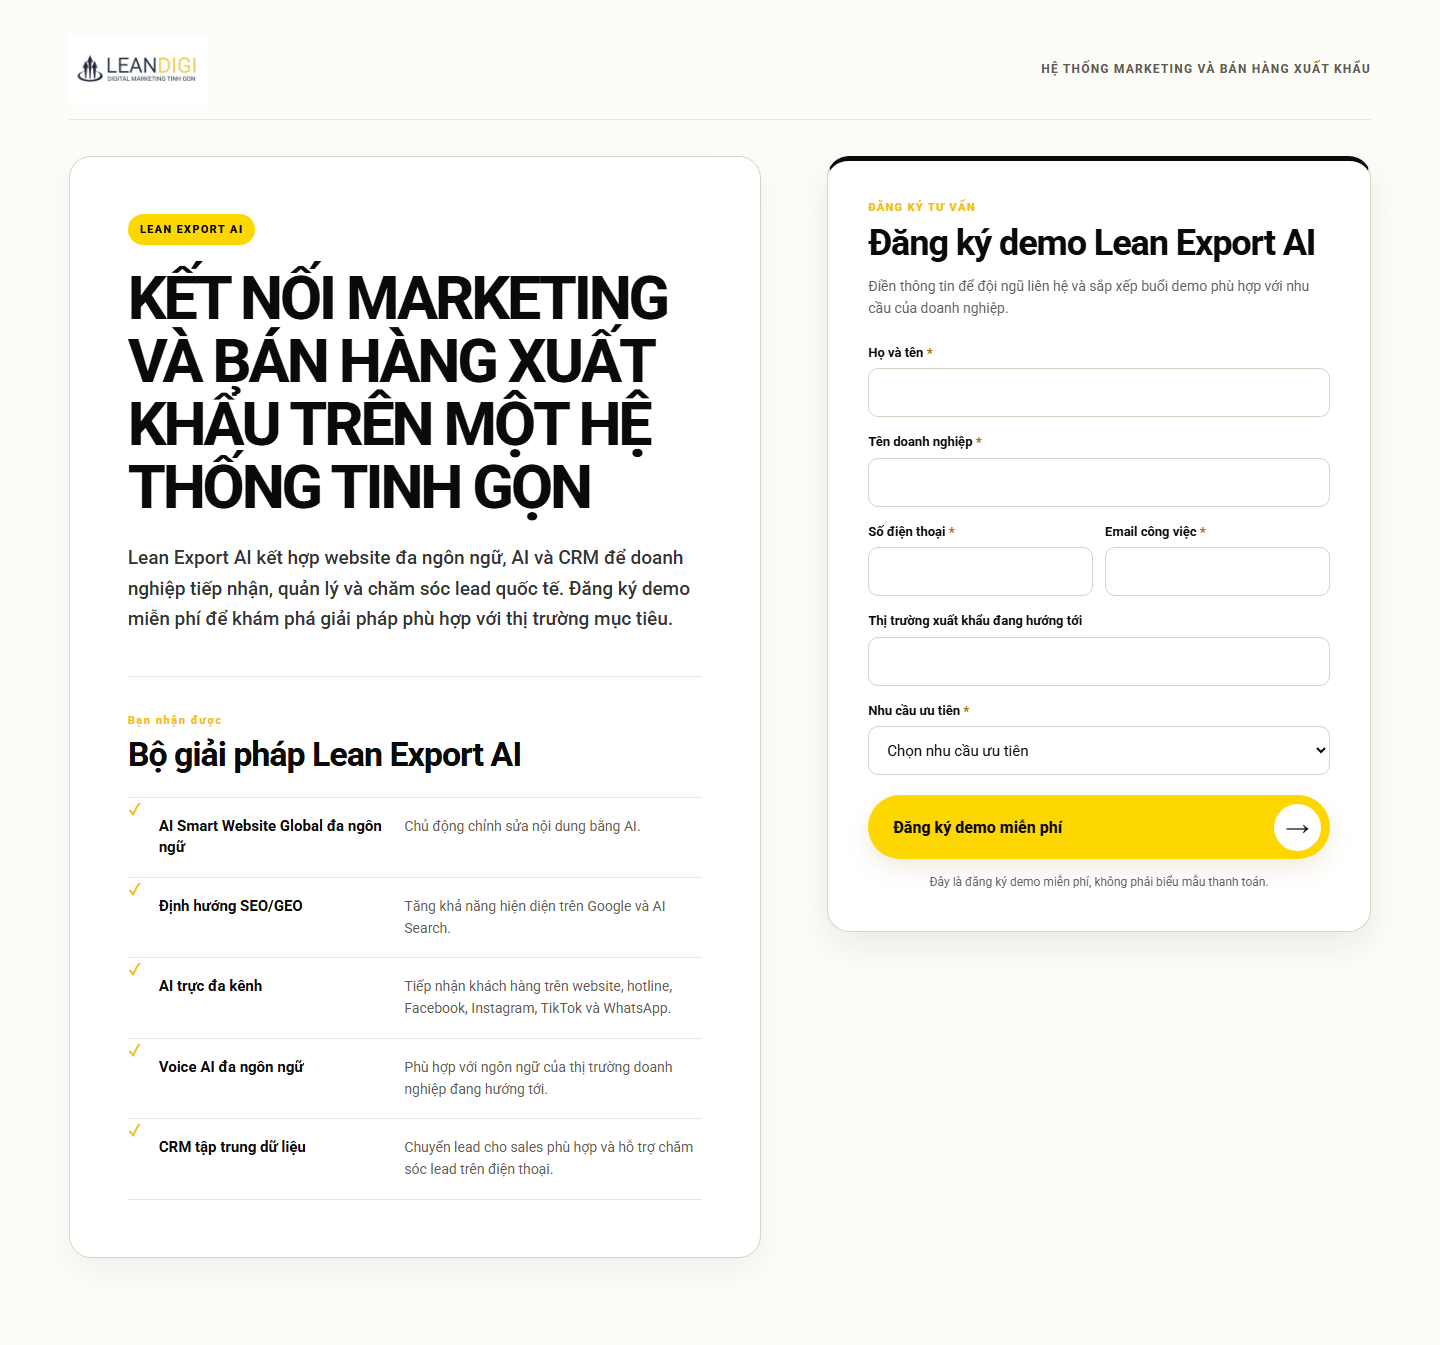
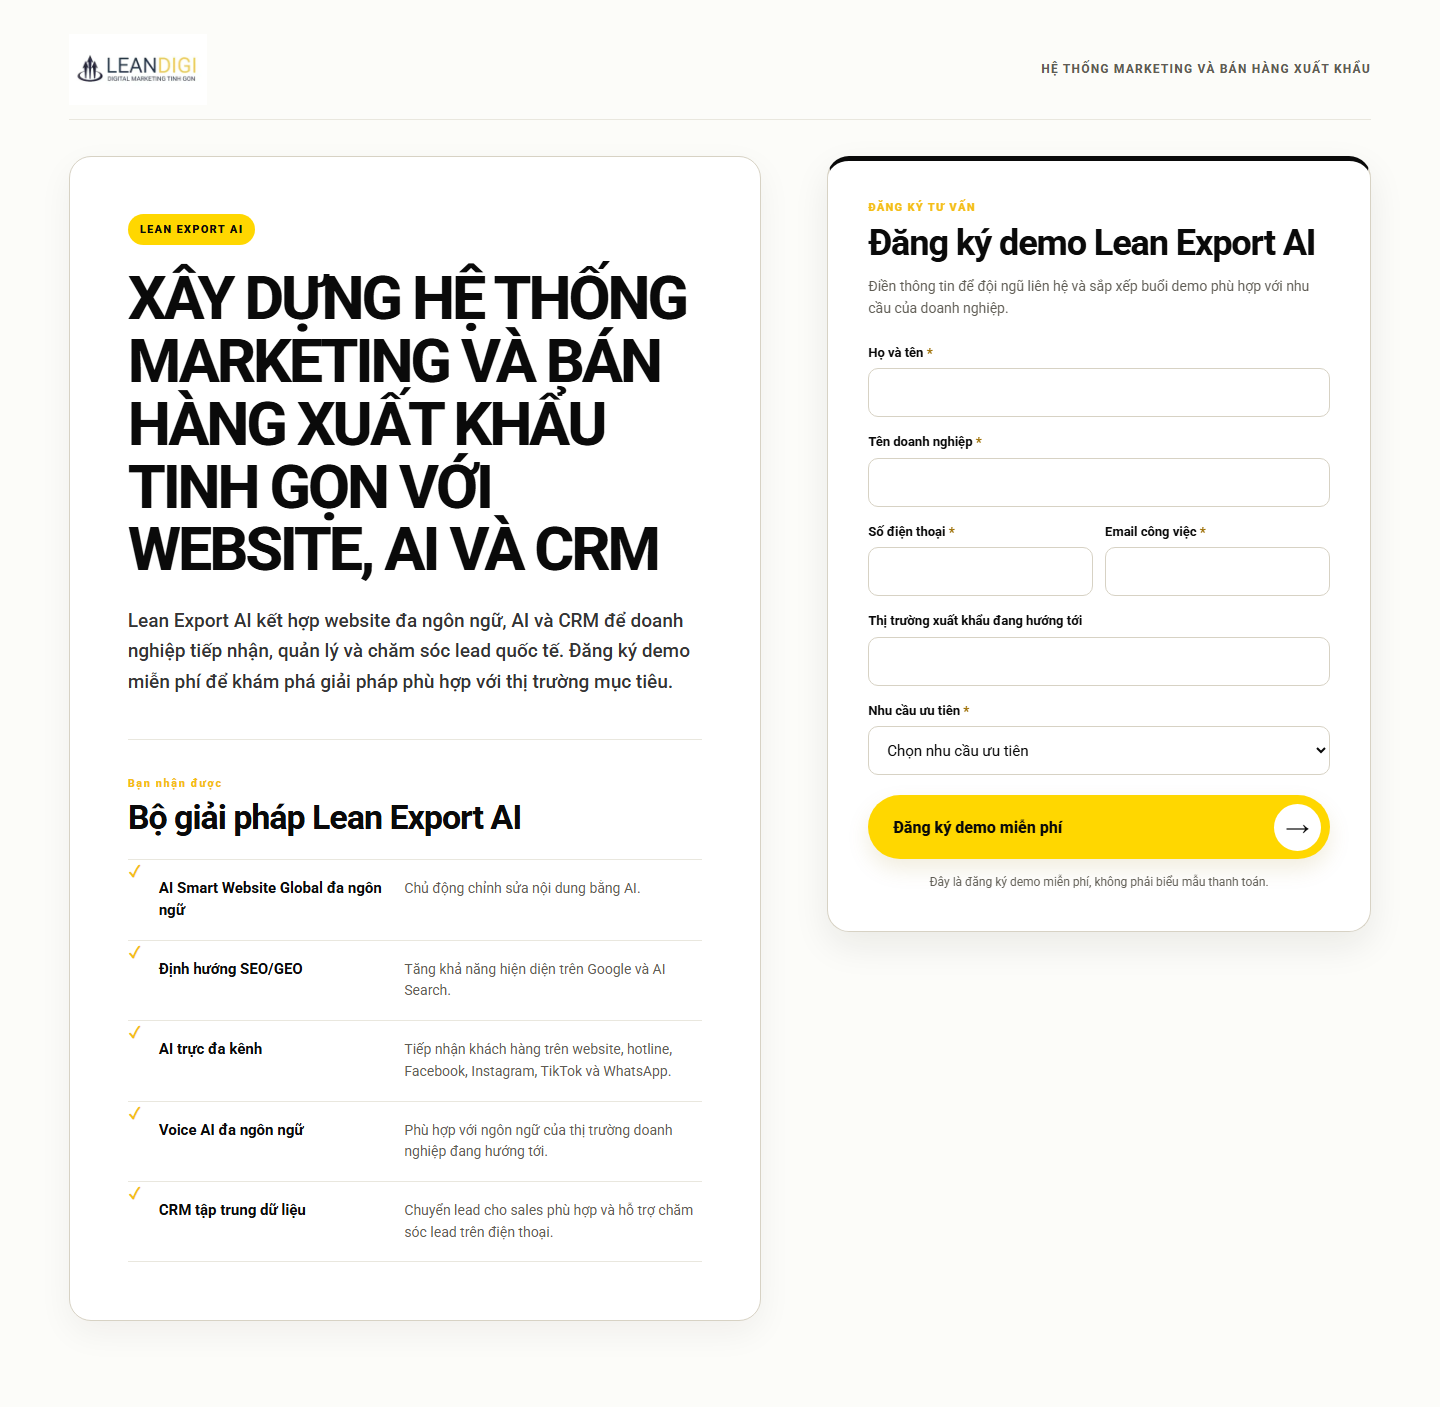
Restore original Lean Export AI headline

diff --git a/index.html b/index.html
@@ -22,7 +22,7 @@
         <article class="offer-panel">
           <header class="offer-hero">
             <p class="offer-kicker">Lean Export AI</p>
-            <h1 id="offer-title">Kết nối marketing và bán hàng xuất khẩu trên một hệ thống tinh gọn</h1>
+            <h1 id="offer-title">Xây dựng hệ thống marketing và bán hàng xuất khẩu tinh gọn với Website, AI và CRM</h1>
             <p class="offer-intro">Lean Export AI kết hợp website đa ngôn ngữ, AI và CRM để doanh nghiệp tiếp nhận, quản lý và chăm sóc lead quốc tế. Đăng ký demo miễn phí để khám phá giải pháp phù hợp với thị trường mục tiêu.</p>
           </header>
 
